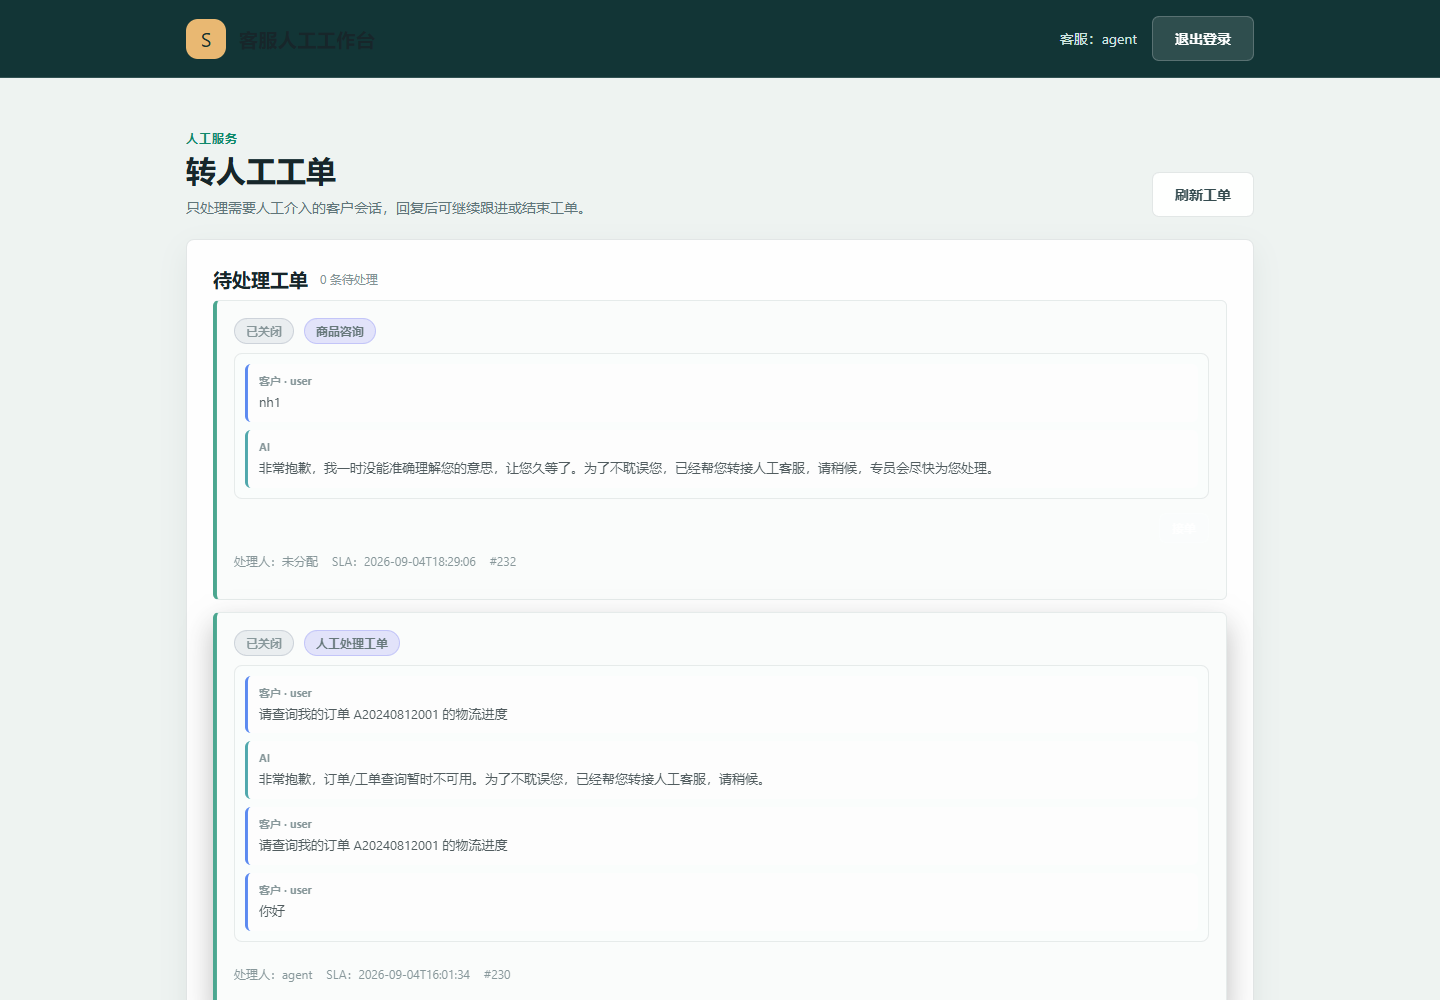
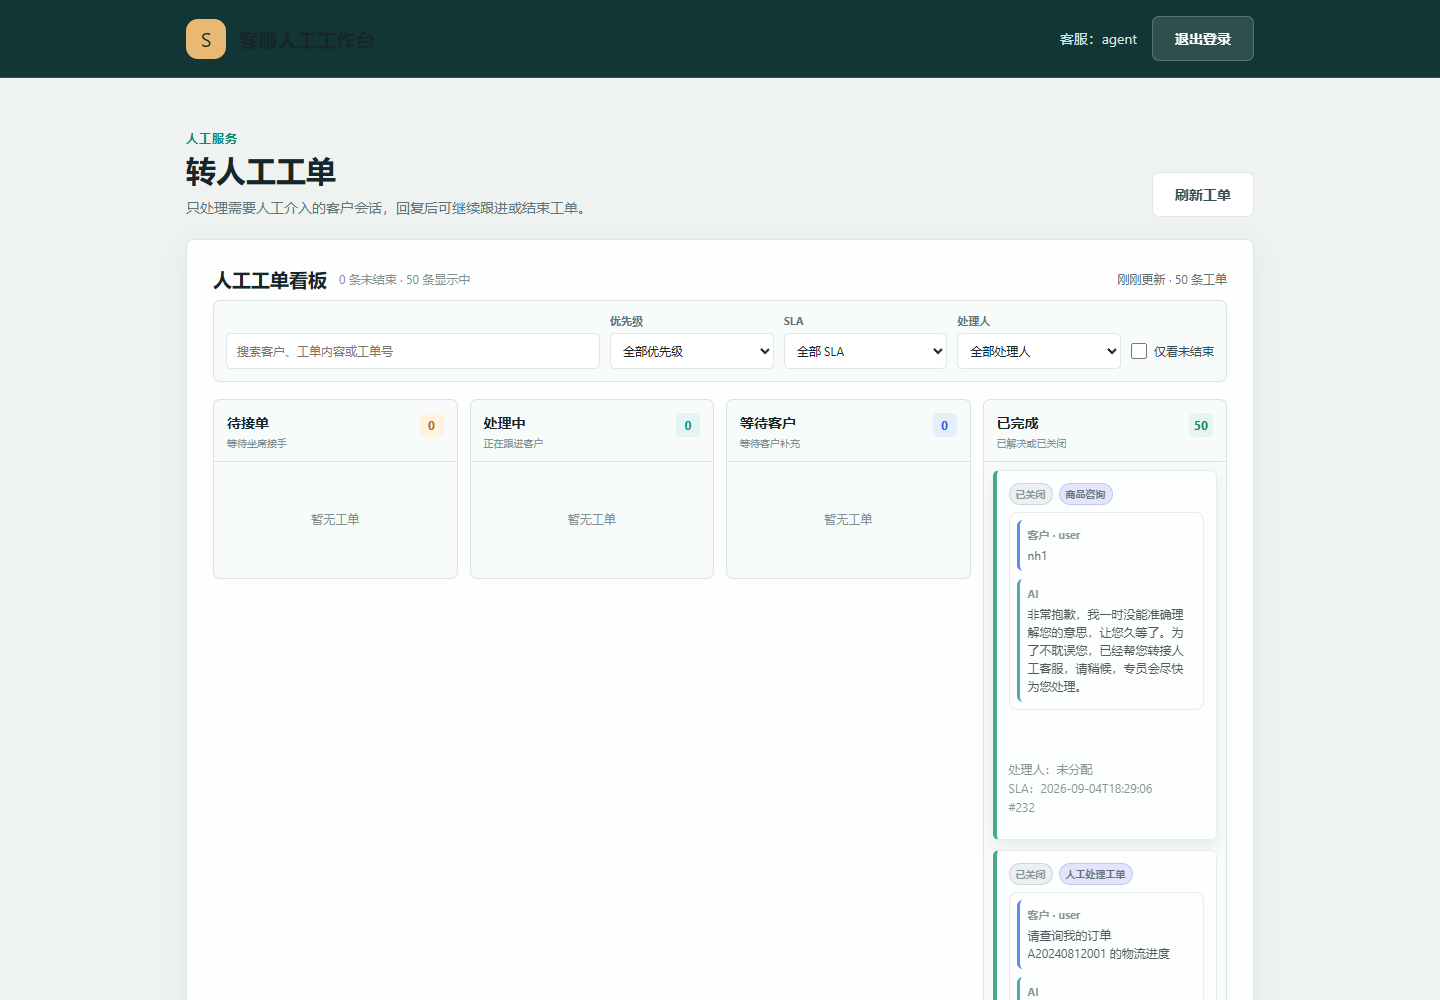
feat: 增加客服工单看板

diff --git a/static/staff.js b/static/staff.js
@@ -2,6 +2,13 @@
 let currentUser = "客服";
 let permissions = new Set();
 let agents = [];
+let tickets = [];
+const BOARD_COLUMNS = [
+  { key: "escalated", label: "待接单", hint: "等待坐席接手" },
+  { key: "in_progress", label: "处理中", hint: "正在跟进客户" },
+  { key: "waiting_customer", label: "等待客户", hint: "等待客户补充" },
+  { key: "done", label: "已完成", hint: "已解决或已关闭" },
+];
 const $ = (id) => document.getElementById(id);
 const escapeHtml = (value) => String(value ?? "").replace(/[&<>\"']/g, (char) => ({ "&": "&amp;", "<": "&lt;", ">": "&gt;", "\"": "&quot;", "'": "&#39;" }[char]));
 async function api(path, options = {}) {
@@ -25,12 +32,55 @@ function renderTicket(ticket) {
   const answer = active && mine && permissions.has("ticket.reply") ? `<div class="human-answer-box"><textarea class="human-answer" data-answer="${ticket.id}" placeholder="请输入人工回复…"></textarea><label class="kb-check"><input type="checkbox" data-savekb="${ticket.id}" checked> 将回答存入知识库</label><div class="escalation-actions">${permissions.has("ticket.reply") ? `<button class="btn btn-ghost btn-sm" data-action="reply" data-id="${ticket.id}">发送并继续</button>` : ""}${permissions.has("ticket.resolve") ? `<button class="btn btn-primary" data-action="resolve" data-id="${ticket.id}">回复并结束</button>` : ""}</div></div>` : ticket.assigned_to && !mine ? `<div class="assignment-notice">该工单正在由「${escapeHtml(ticket.assigned_to)}」处理</div>` : "";
   return `<article class="escalation-card ${active ? "" : "resolved"} ${overdue ? "overdue" : ""}"><div class="escalation-top"><span class="tag ${ticket.status}">${status}</span>${overdue ? '<span class="tag overdue">SLA 已超时</span>' : ""}<span class="tag">${escapeHtml(ticket.category || "未知")}</span></div>${renderThread(ticket)}<div class="workflow-actions">${claim}${workflow}</div>${answer}${transfer}<div class="escalation-meta"><span>处理人：${escapeHtml(ticket.assigned_to || "未分配")}</span><span>SLA：${escapeHtml(ticket.sla_due_at || "未设置")}</span><span>#${ticket.id}</span></div></article>`;
 }
-let tickets = [];
+
+function ticketIsActive(ticket) { return ["escalated", "in_progress", "waiting_customer"].includes(ticket.status); }
+function ticketIsOverdue(ticket) {
+  return ticketIsActive(ticket) && (ticket.sla_breached === true || ticket.sla_breached === 1 || (ticket.sla_due_at && new Date(String(ticket.sla_due_at).replace(" ", "T")) < new Date()));
+}
+function ticketColumn(ticket) { return ticketIsActive(ticket) ? ticket.status : "done"; }
+function ticketSearchText(ticket) {
+  return [ticket.id, ticket.username, ticket.ticket_text, ticket.category, ticket.assigned_to, ...(ticket.messages || []).map((message) => message.content)].join(" ").toLowerCase();
+}
+function filteredTickets() {
+  const search = $("staff-search").value.trim().toLowerCase();
+  const priority = $("staff-priority-filter").value;
+  const sla = $("staff-sla-filter").value;
+  const assignee = $("staff-assignee-filter").value;
+  const activeOnly = $("staff-active-only").checked;
+  return tickets.filter((ticket) => {
+    if (activeOnly && !ticketIsActive(ticket)) return false;
+    if (search && !ticketSearchText(ticket).includes(search)) return false;
+    if (priority && (ticket.priority || "normal") !== priority) return false;
+    if (sla === "overdue" && !ticketIsOverdue(ticket)) return false;
+    if (sla === "active" && ticketIsOverdue(ticket)) return false;
+    if (assignee === "unassigned" && ticket.assigned_to) return false;
+    if (assignee && assignee !== "unassigned" && ticket.assigned_to !== assignee) return false;
+    return true;
+  });
+}
+function renderAssigneeFilter() {
+  const select = $("staff-assignee-filter");
+  const selected = select.value;
+  const names = [...new Set([...agents.map((agent) => agent.username), ...tickets.map((ticket) => ticket.assigned_to).filter(Boolean)])].sort();
+  select.innerHTML = '<option value="">全部处理人</option><option value="unassigned">未分配</option>' + names.map((name) => `<option value="${escapeHtml(name)}">${escapeHtml(name)}</option>`).join("");
+  if (["", "unassigned", ...names].includes(selected)) select.value = selected;
+}
+function renderBoard() {
+  const visible = filteredTickets();
+  const counts = BOARD_COLUMNS.reduce((result, column) => ({ ...result, [column.key]: visible.filter((ticket) => ticketColumn(ticket) === column.key).length }), {});
+  $("escalation-board").innerHTML = BOARD_COLUMNS.map((column) => {
+    const columnTickets = visible.filter((ticket) => ticketColumn(ticket) === column.key);
+    return `<section class="board-column board-${column.key}"><div class="board-column-head"><div><h3>${column.label}</h3><span>${column.hint}</span></div><b>${counts[column.key]}</b></div><div class="board-column-list">${columnTickets.length ? columnTickets.map(renderTicket).join("") : '<div class="board-empty">暂无工单</div>'}</div></section>`;
+  }).join("");
+  bindActions();
+  const active = tickets.filter(ticketIsActive).length;
+  $("escalation-count").textContent = `${active} 条未结束 · ${visible.length} 条显示中`;
+}
 async function refreshTickets() {
-  try { tickets = await api("/api/escalations"); const pending = tickets.filter((ticket) => ["escalated", "in_progress", "waiting_customer"].includes(ticket.status)); $("escalation-count").textContent = `${pending.length} 条待处理`; $("escalation-list").innerHTML = tickets.length ? tickets.map(renderTicket).join("") : '<div class="empty">暂无转人工工单</div>'; bindActions(); } catch (error) { $("escalation-list").innerHTML = `<div class="empty">加载失败：${escapeHtml(error.message)}</div>`; }
+  try { tickets = await api("/api/escalations"); renderAssigneeFilter(); renderBoard(); $("board-updated").textContent = `刚刚更新 · ${tickets.length} 条工单`; } catch (error) { $("escalation-board").innerHTML = `<div class="empty">加载失败：${escapeHtml(error.message)}</div>`; }
 }
 async function loadAgents() { if (!permissions.has("ticket.transfer")) return; try { agents = await api("/api/agents"); } catch (_) { agents = []; } }
-function bindActions() { $("escalation-list").querySelectorAll("[data-action]").forEach((button) => button.addEventListener("click", () => handleAction(button.dataset.action, button.dataset.id))); }
+function bindActions() { $("escalation-board").querySelectorAll("[data-action]").forEach((button) => button.addEventListener("click", () => handleAction(button.dataset.action, button.dataset.id))); }
 async function handleAction(action, id) {
   const ticket = tickets.find((item) => String(item.id) === String(id)); if (!ticket) return;
   try {
@@ -105,5 +155,10 @@ window.addEventListener("beforeunload", () => {
   stopRealtimePolling();
 });
 $("refresh-btn").addEventListener("click", refreshTickets);
+$("staff-search").addEventListener("input", renderBoard);
+$("staff-priority-filter").addEventListener("change", renderBoard);
+$("staff-sla-filter").addEventListener("change", renderBoard);
+$("staff-assignee-filter").addEventListener("change", renderBoard);
+$("staff-active-only").addEventListener("change", renderBoard);
 $("logout-btn").addEventListener("click", async () => { await fetch("/api/logout", { method: "POST" }); window.location.href = "/login"; });
 window.addEventListener("DOMContentLoaded", async () => { try { const me = await api("/api/me"); if (me.role !== "agent") { window.location.href = me.role === "admin" ? "/admin" : "/"; return; } currentUser = me.username; permissions = new Set(me.permissions || []); $("staff-username").textContent = `客服：${currentUser}`; await loadAgents(); await refreshTickets(); startRealtime(); } catch (_) { window.location.href = "/login"; } });

diff --git a/static/style.css b/static/style.css
@@ -772,6 +772,64 @@ a { text-decoration: none; color: inherit; }
   background: rgba(100, 116, 139, 0.1); color: var(--text-2); font-size: 12px;
 }
 
+/* 客服工单看板 */
+.staff-board-panel { padding-bottom: 20px; }
+.staff-board-panel .panel-head { align-items: center; }
+.board-toolbar {
+  display: grid;
+  grid-template-columns: minmax(220px, 1.6fr) repeat(3, minmax(120px, .7fr)) auto;
+  align-items: end; gap: 10px; margin-bottom: 17px; padding: 12px;
+  border: 1px solid var(--line); border-radius: 7px; background: #f7fbfa;
+}
+.board-search input, .board-filter select {
+  width: 100%; min-height: 36px; border: 1px solid var(--line);
+  border-radius: 5px; background: #fff; color: var(--text-0); font: inherit; font-size: 12px;
+}
+.board-search input { padding: 8px 10px; }
+.board-filter { display: flex; flex-direction: column; gap: 5px; }
+.board-filter span { color: var(--text-2); font-size: 11px; font-weight: 700; }
+.board-filter select { padding: 7px 8px; }
+.board-search input:focus, .board-filter select:focus { outline: 2px solid rgba(15, 118, 110, .14); border-color: var(--indigo); }
+.board-toggle { display: flex; align-items: center; gap: 7px; min-height: 36px; color: var(--text-1); font-size: 12px; white-space: nowrap; cursor: pointer; }
+.board-toggle input { width: 16px; height: 16px; accent-color: var(--indigo); cursor: pointer; }
+.escalation-board { display: grid; grid-template-columns: repeat(4, minmax(0, 1fr)); gap: 12px; align-items: start; }
+.board-column { min-width: 0; border: 1px solid var(--line); border-radius: 7px; background: #f7fbfa; }
+.board-column-head { display: flex; align-items: flex-start; justify-content: space-between; gap: 8px; padding: 13px 13px 11px; border-bottom: 1px solid var(--line); }
+.board-column-head h3 { color: var(--text-0); font-size: 14px; }
+.board-column-head span { display: block; margin-top: 4px; color: var(--text-3); font-size: 10px; }
+.board-column-head b { display: grid; place-items: center; flex: 0 0 24px; width: 24px; height: 24px; border-radius: 5px; background: #e7f2ef; color: var(--indigo); font-size: 12px; }
+.board-escalated .board-column-head b { background: #fff2df; color: var(--amber); }
+.board-in_progress .board-column-head b { background: #e2f4f4; color: var(--cyan); }
+.board-waiting_customer .board-column-head b { background: #e5eefb; color: var(--blue); }
+.board-done .board-column-head b { background: #e3f5ed; color: var(--green); }
+.board-column-list { display: flex; flex-direction: column; gap: 9px; min-height: 116px; padding: 9px; }
+.board-column .escalation-card { padding: 12px; border-radius: 6px; background: #fff; }
+.board-column .escalation-card:hover { transform: translateY(-1px); box-shadow: 0 7px 18px rgba(39, 67, 67, .11); }
+.board-column .escalation-top { gap: 6px; margin-bottom: 7px; }
+.board-column .tag { padding: 3px 6px; font-size: 10px; }
+.board-column .ticket-thread { max-height: 220px; margin-bottom: 10px; padding: 7px; }
+.board-column .ticket-message { padding: 7px 8px; }
+.board-column .ticket-message-content { font-size: 12px; line-height: 1.5; }
+.board-column .escalation-meta { margin-bottom: 9px; line-height: 1.6; }
+.board-column .escalation-meta span { display: block; margin-right: 0; overflow-wrap: anywhere; }
+.board-column .workflow-actions, .board-column .transfer-actions { justify-content: flex-start; flex-wrap: wrap; }
+.board-column .human-answer-box .escalation-actions { display: flex; flex-wrap: wrap; justify-content: flex-start; gap: 7px; }
+.board-column .human-answer { min-height: 62px; padding: 9px 10px; font-size: 12px; }
+.board-empty { display: grid; place-items: center; min-height: 96px; color: var(--text-3); font-size: 12px; }
+.sr-only { position: absolute; width: 1px; height: 1px; padding: 0; margin: -1px; overflow: hidden; clip: rect(0, 0, 0, 0); white-space: nowrap; border: 0; }
+
+@media (max-width: 1100px) {
+  .board-toolbar { grid-template-columns: minmax(190px, 1fr) repeat(2, minmax(120px, .65fr)); }
+  .board-toggle { grid-column: span 2; }
+  .escalation-board { grid-template-columns: repeat(2, minmax(0, 1fr)); }
+}
+@media (max-width: 600px) {
+  .staff-board-panel .panel-head { align-items: flex-start; flex-direction: column; gap: 6px; }
+  .board-toolbar { grid-template-columns: 1fr 1fr; }
+  .board-search, .board-toggle { grid-column: 1 / -1; }
+  .escalation-board { grid-template-columns: 1fr; }
+}
+
 /* 人工回答回流 */
 .human-answer-box { margin-bottom: 12px; }
 .human-answer {

diff --git a/templates/staff.html b/templates/staff.html
@@ -4,7 +4,7 @@
   <meta charset="UTF-8" />
   <meta name="viewport" content="width=device-width, initial-scale=1.0" />
   <title>客服工作台 - AI 工单系统</title>
-  <link rel="stylesheet" href="/static/style.css?v=20260904-1" />
+  <link rel="stylesheet" href="/static/style.css?v=20260905-board" />
 </head>
 <body class="admin-body staff-body">
   <header class="navbar"><div class="navbar-inner">
@@ -13,8 +13,21 @@
   </div></header>
   <main class="container staff-container">
     <section class="manager-intro staff-intro"><div><p class="eyebrow">人工服务</p><h1>转人工工单</h1><p>只处理需要人工介入的客户会话，回复后可继续跟进或结束工单。</p></div><button class="btn btn-ghost" id="refresh-btn">刷新工单</button></section>
-    <section class="panel admin-panel"><div class="panel-head"><div class="panel-title-row"><h2 class="panel-title">待处理工单</h2><span class="pending-count" id="escalation-count">加载中…</span></div></div><div id="escalation-list" class="escalation-list"><div class="empty">加载中…</div></div></section>
+    <section class="panel admin-panel staff-board-panel">
+      <div class="panel-head">
+        <div class="panel-title-row"><h2 class="panel-title">人工工单看板</h2><span class="pending-count" id="escalation-count">加载中…</span></div>
+        <span class="panel-tip" id="board-updated">等待同步</span>
+      </div>
+      <div class="board-toolbar" aria-label="工单筛选">
+        <label class="board-search"><span class="sr-only">搜索工单</span><input type="search" id="staff-search" placeholder="搜索客户、工单内容或工单号" autocomplete="off" /></label>
+        <label class="board-filter"><span>优先级</span><select id="staff-priority-filter"><option value="">全部优先级</option><option value="urgent">紧急</option><option value="high">高</option><option value="normal">普通</option><option value="low">低</option></select></label>
+        <label class="board-filter"><span>SLA</span><select id="staff-sla-filter"><option value="">全部 SLA</option><option value="overdue">已超时</option><option value="active">未超时</option></select></label>
+        <label class="board-filter"><span>处理人</span><select id="staff-assignee-filter"><option value="">全部处理人</option><option value="unassigned">未分配</option></select></label>
+        <label class="board-toggle"><input type="checkbox" id="staff-active-only" /><span>仅看未结束</span></label>
+      </div>
+      <div id="escalation-board" class="escalation-board"><div class="empty">加载中…</div></div>
+    </section>
   </main>
-  <script src="/static/staff.js?v=20260904-1"></script>
+  <script src="/static/staff.js?v=20260905-board"></script>
 </body>
 </html>
